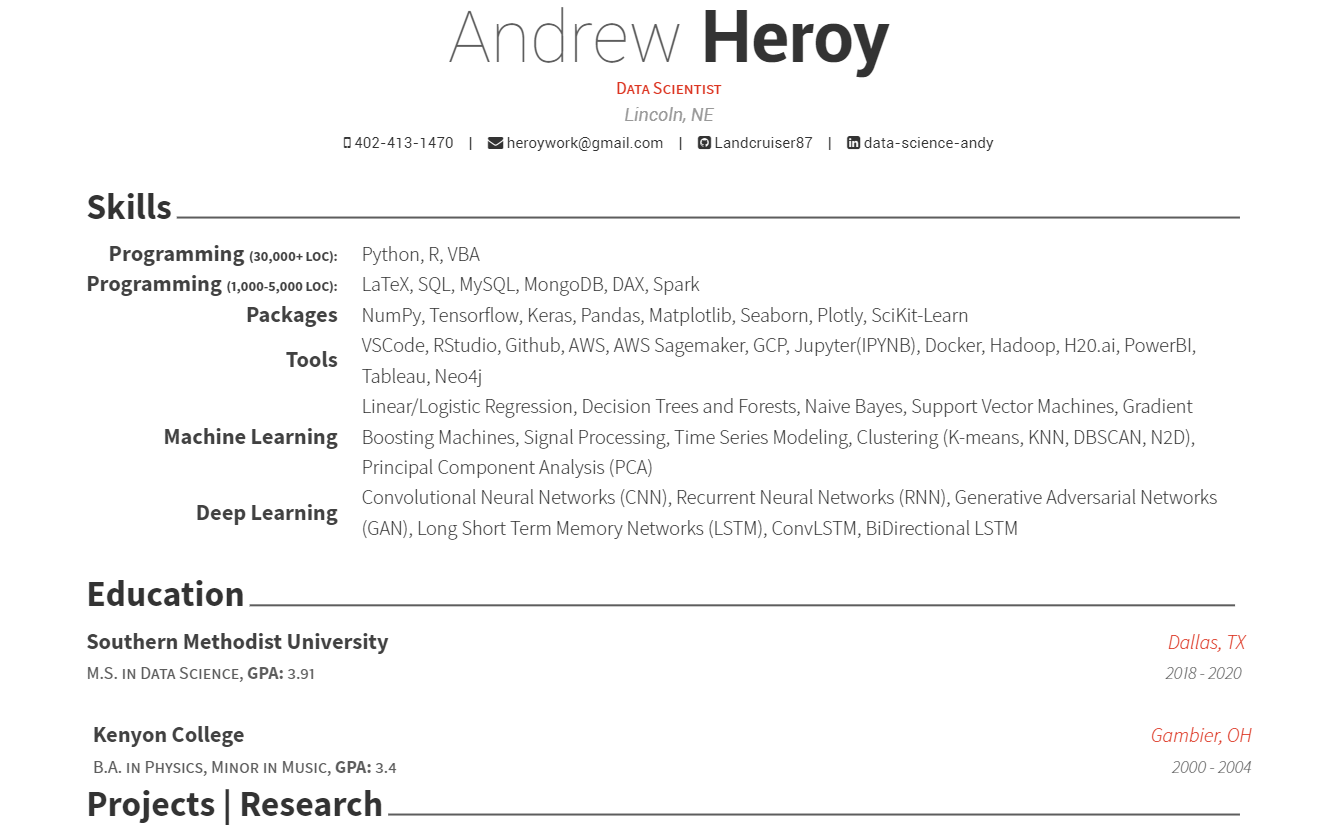
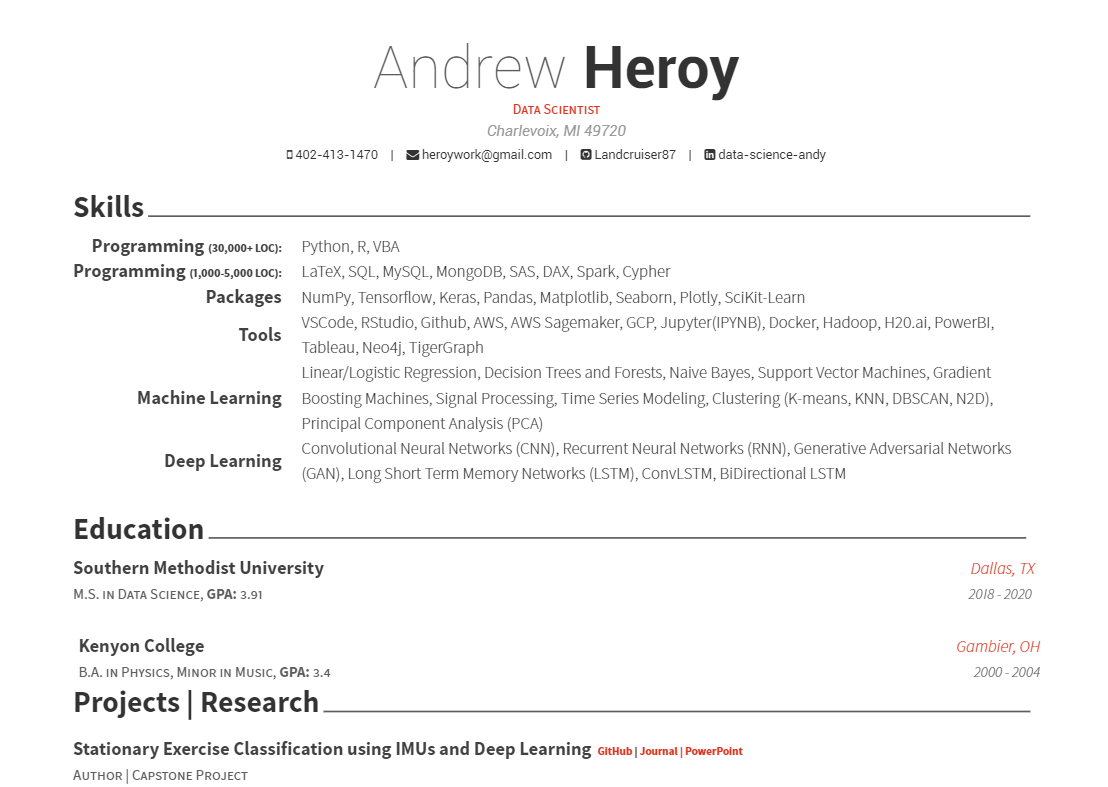
Updating Resume

Changed region(s): [[0.0614, 0.2135, 0.9513, 1.0], [0.3375, 0.0, 0.7365, 0.2135], [0.2455, 0.1525, 0.3375, 0.2135]]

diff --git a/resume.html b/resume.html
@@ -336,9 +336,6 @@ $(document).ready(function () {
 <center>
 <img src="images/Resume3.png" width="1000px">
 </center>
-<center>
-<img src="images/Resume4.png" width="1000px">
-</center>
 <p><a href="./resume/AndyHeroyResume2020.pdf">Andy Heroy Resume Download Link</a></p>
 
 
